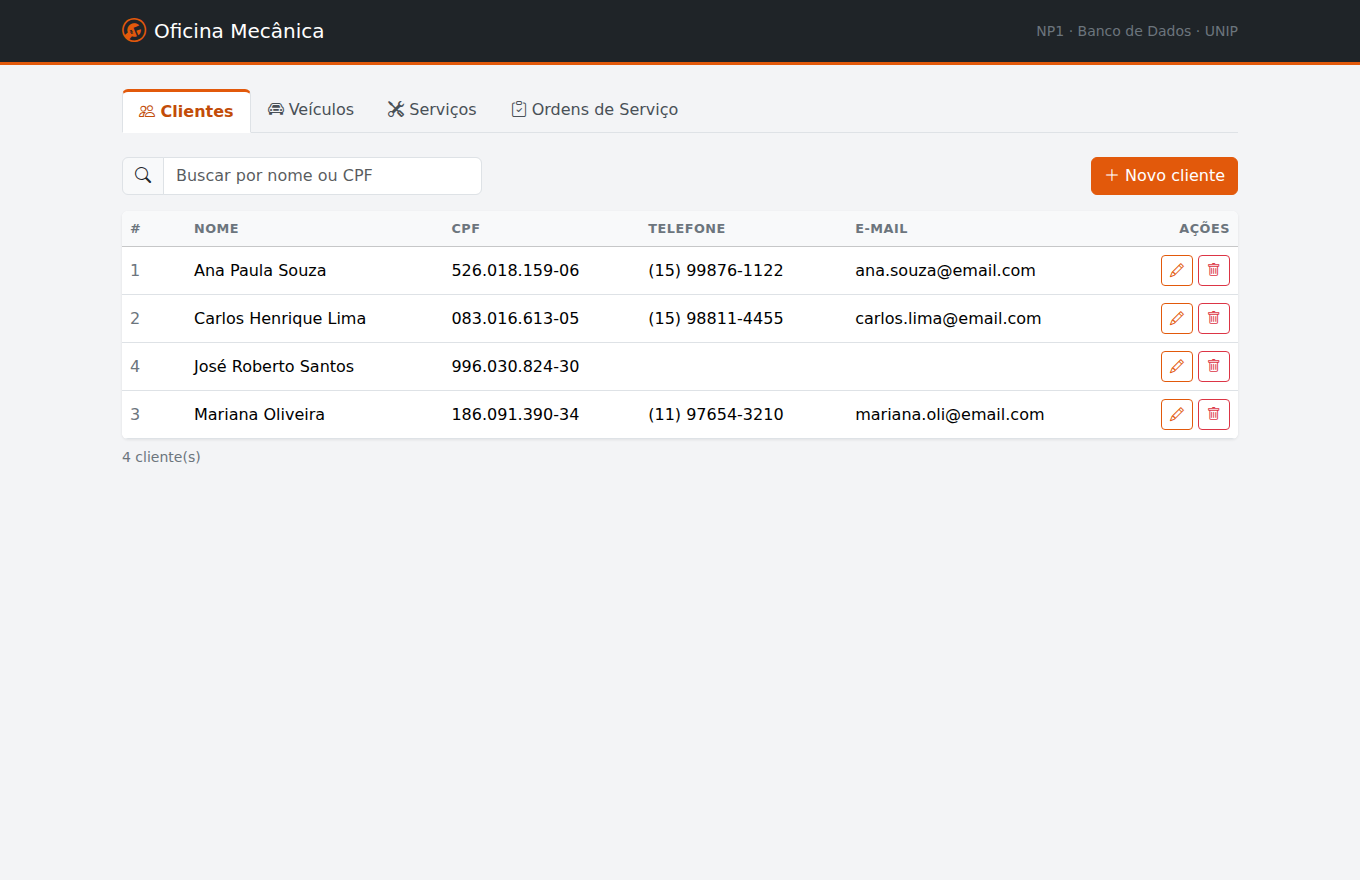
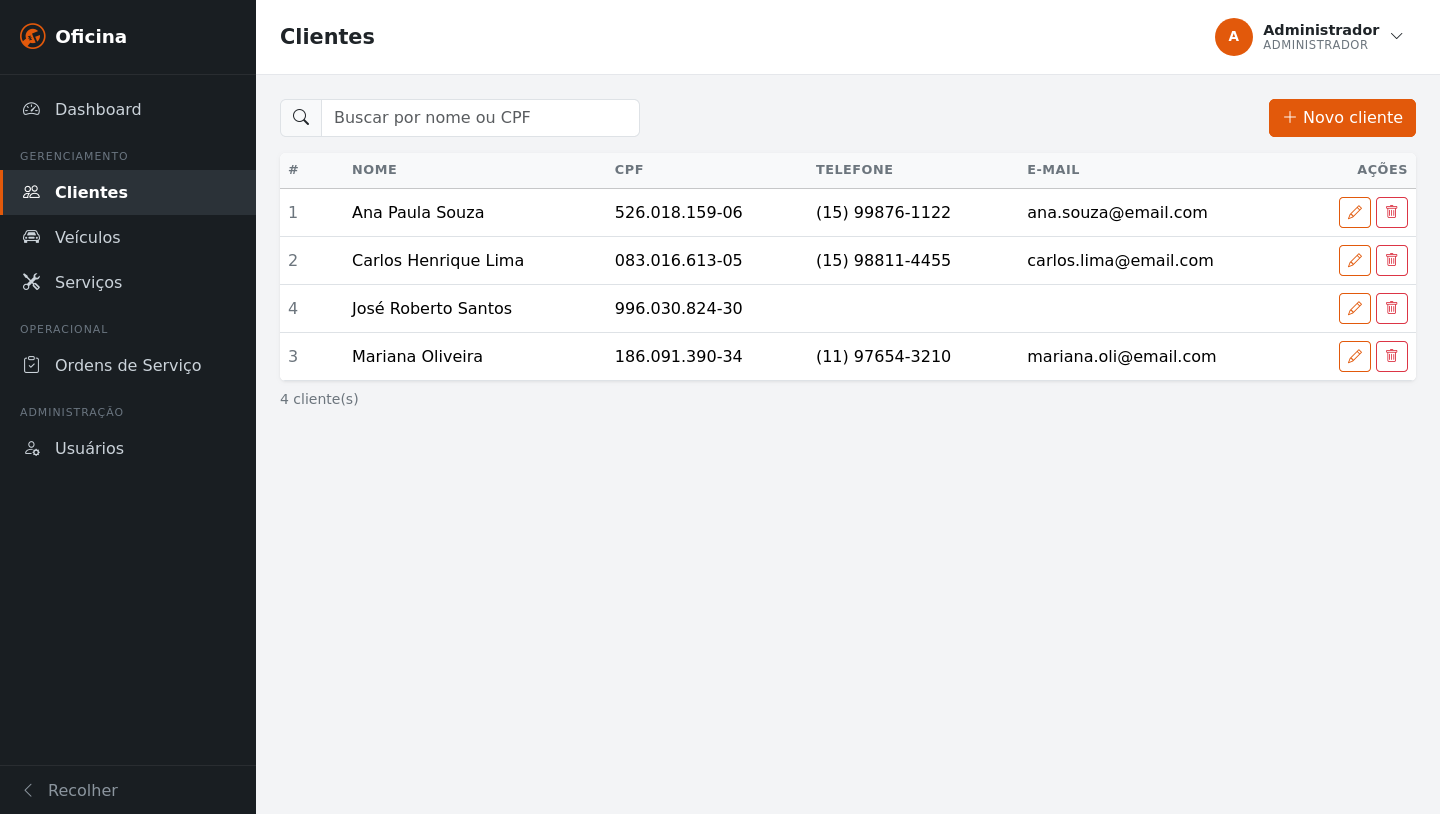
docs: refaz os prints com a interface atual
Capturas geradas contra a aplicação rodando, via geckodriver: menu
lateral, dashboard, telas de listagem, formulário de cadastro, validação
de CPF rejeitada pelo dígito verificador e a OS com seus itens.

Nenhum registro foi criado ou alterado para tirar os prints — o banco
segue com os mesmos 4 clientes, 4 ordens e 6 itens do seed.

Remove três prints órfãos da interface antiga (09, 11 e 22).

diff --git a/README.md b/README.md
@@ -395,9 +395,13 @@ Host `127.0.0.1`, porta `3306`, usuário `root`, senha `root`, schema `oficina`.
 | | |
 |---|---|
 | ![Tela de login](docs/prints/00-login.png) | ![Dashboard](docs/prints/25-dashboard.png) |
-| Tela de login — acesso por e-mail e senha | Dashboard com indicadores e gráficos |
+| Tela de login — acesso por e-mail e senha | Dashboard: indicadores, distribuição por situação e movimento por mês |
 | ![Clientes](docs/prints/01-clientes-lista.png) | ![Ordens de serviço](docs/prints/07-ordens-lista.png) |
-| Lista de clientes com busca | Ordens de serviço com status e total |
+| Lista de clientes com busca | Ordens de serviço com situação e total calculado |
+| ![Veículos](docs/prints/05-veiculos-lista.png) | ![Serviços](docs/prints/06-servicos-catalogo.png) |
+| Veículos com o proprietário (o 1:N na tela) | Catálogo com preço e itens ativos/inativos |
+| ![Usuários](docs/prints/26-usuarios.png) | |
+| Administração de contas — só o perfil ADMIN chega aqui | |
 
 ### CRUD em funcionamento
 
